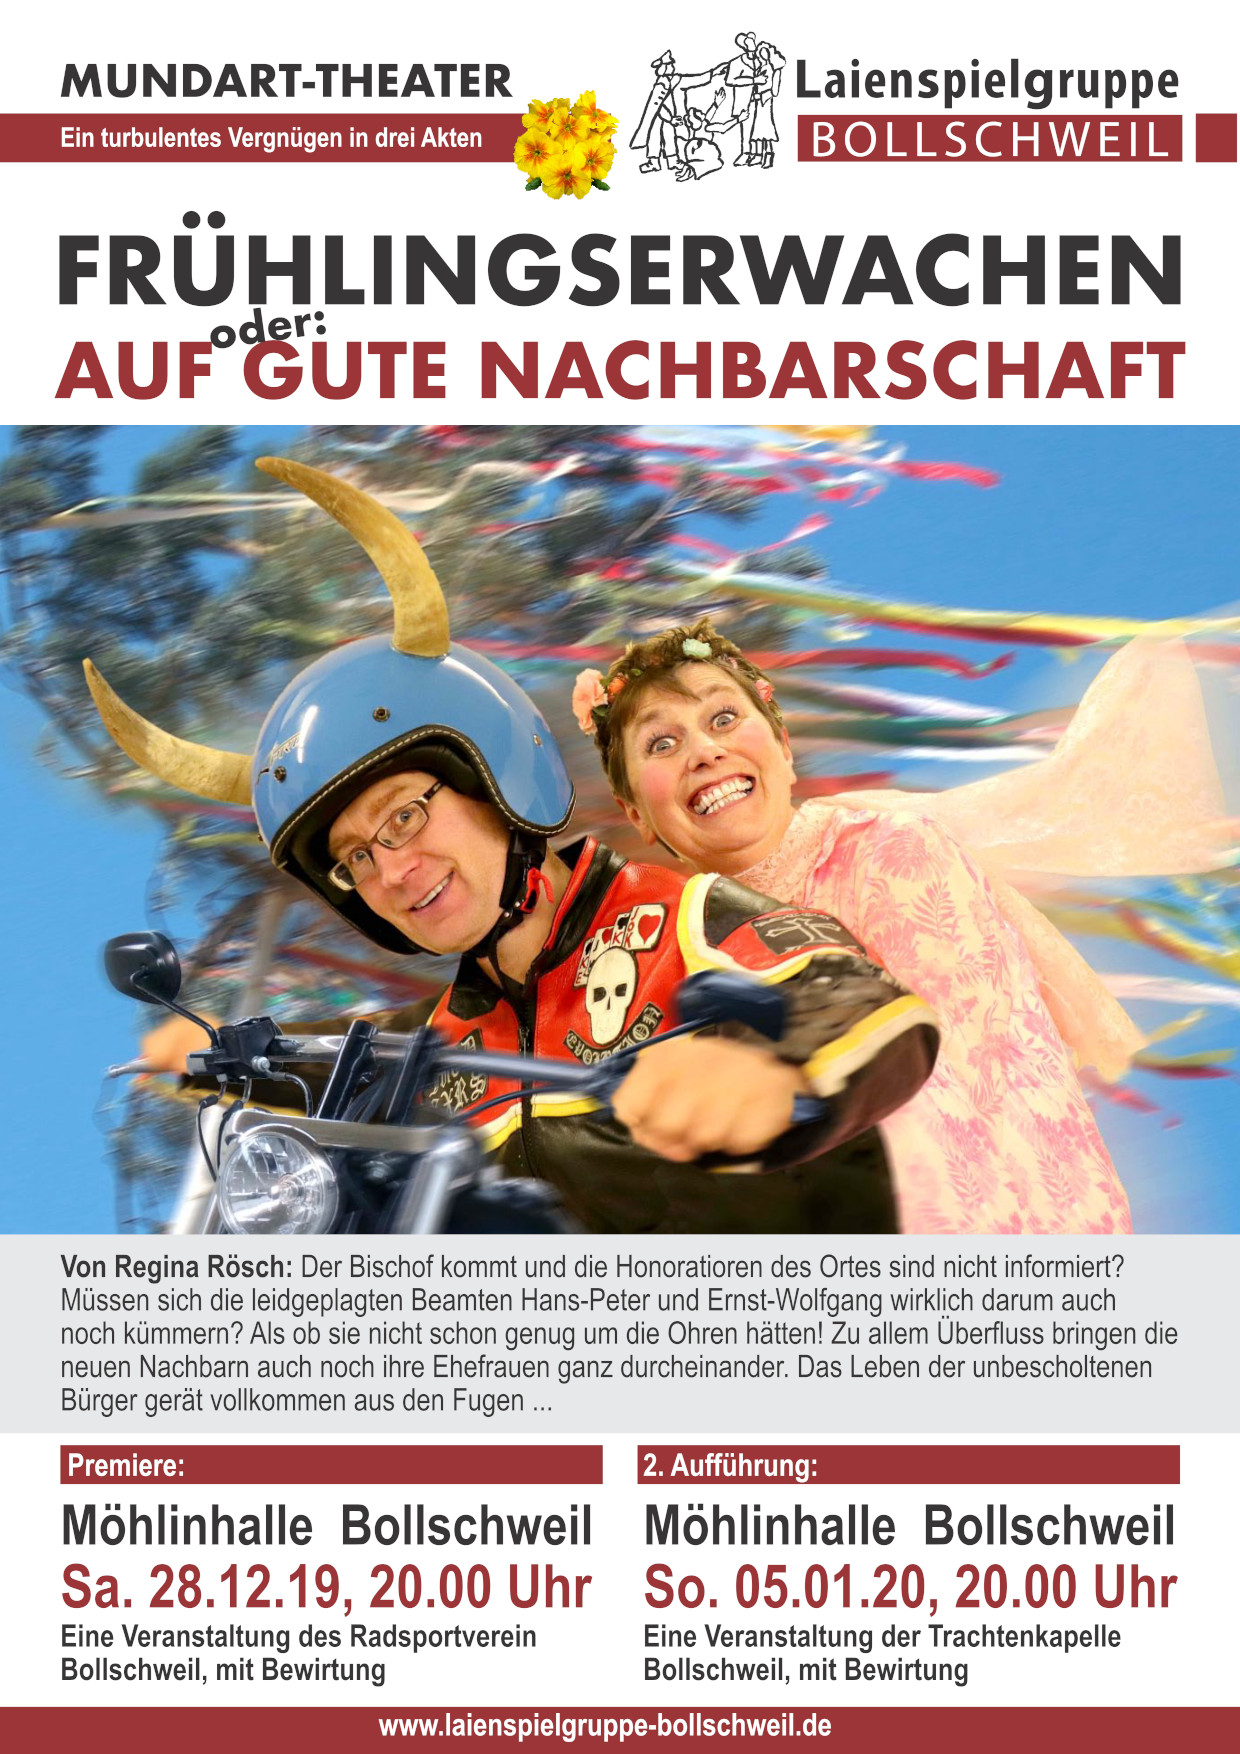
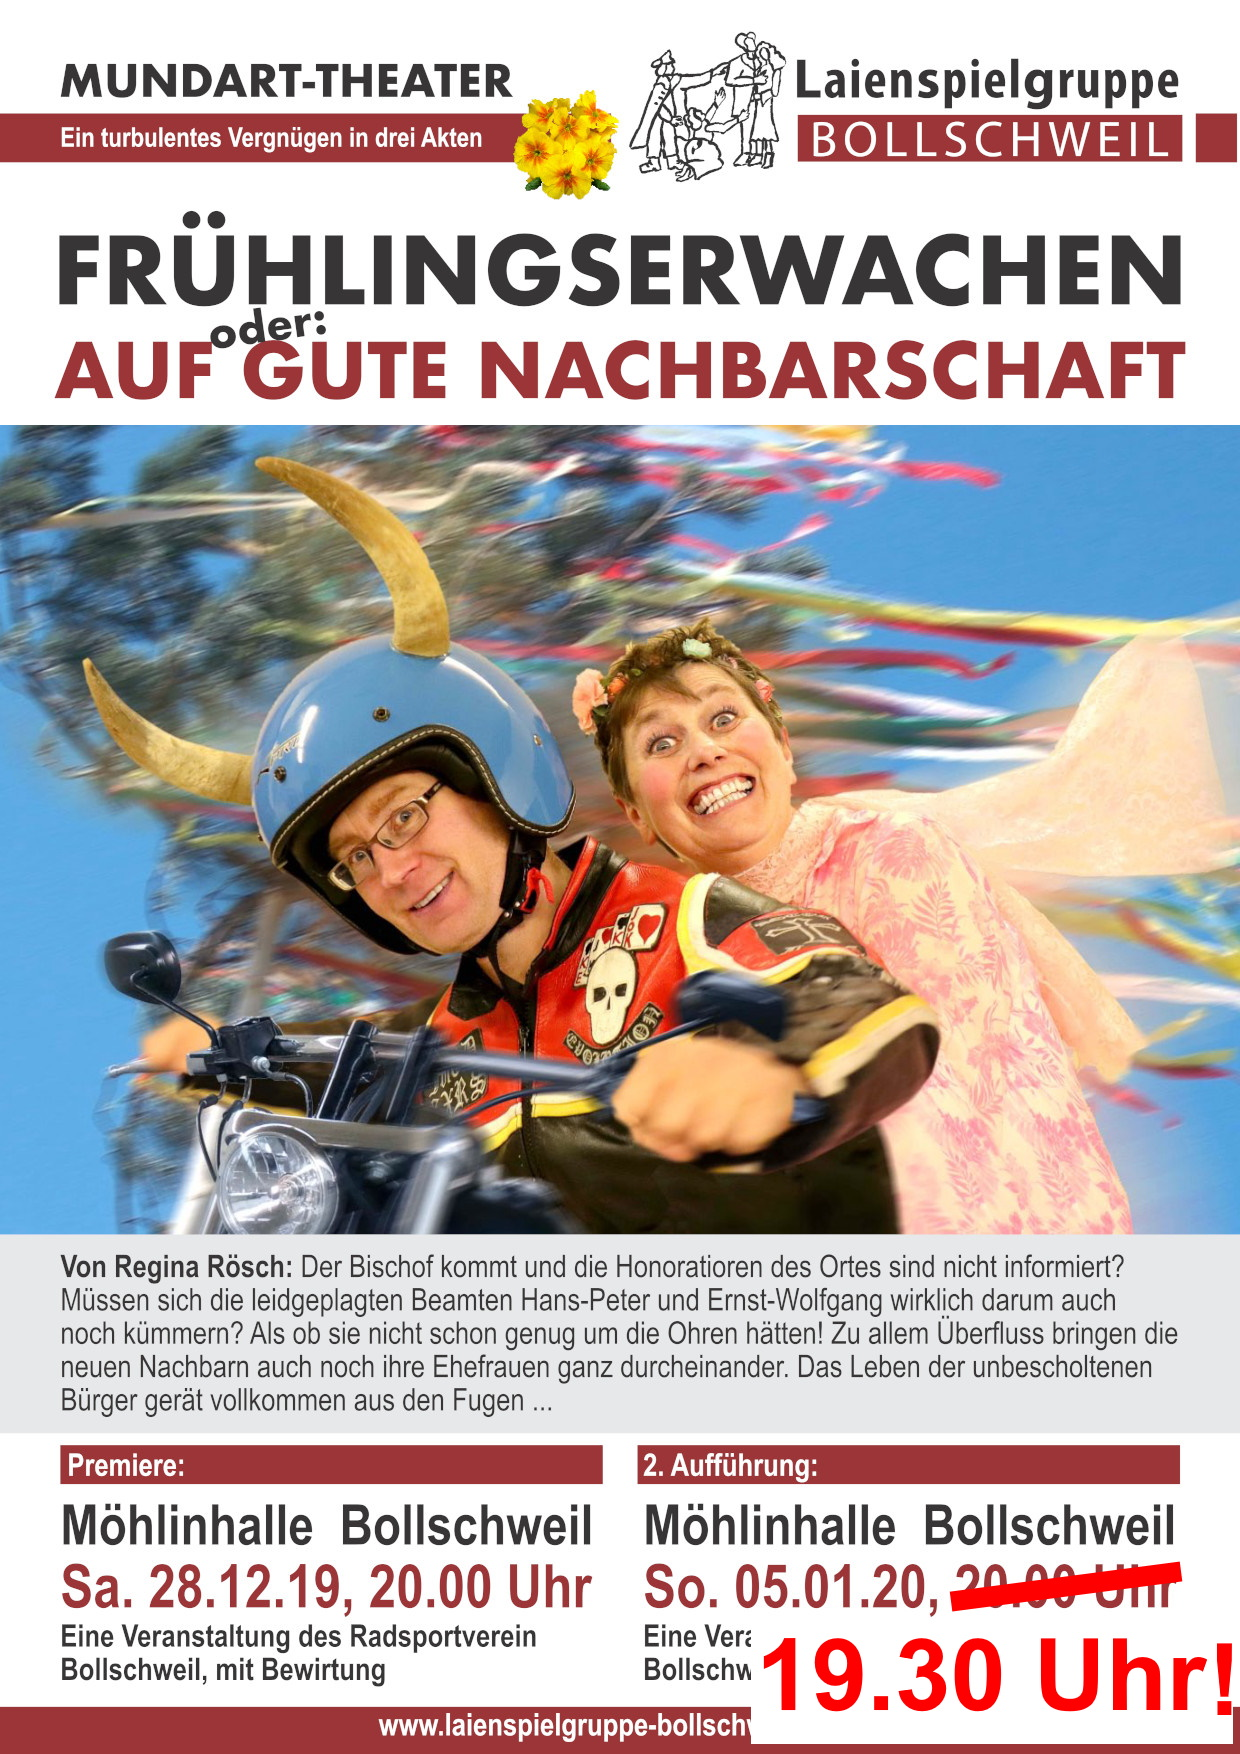
Event update
- fix event info
- move news data
- add new style class for red font color

Changed region(s): [[0.5823, 0.8928, 1.0, 1.0]]

diff --git a/content/news/70.html b/content/news/70.html
@@ -13,10 +13,10 @@
 </p>
 <p>
         Am: <span class="strong">Sonntag, 5. Januar 2020</span><br>
-        Um: <span class="strong">20:00 Uhr</span>
+        Um: <span class="strong red">19:30 Uhr</span>
 </p>
 <p>
-        Der Musikverein veranstaltet am Sonntag, den 05. Januar um 20 Uhr in der Möhlinhalle Bollschweil eine öffentliche Weihnachtsfeier.
+        Der Musikverein veranstaltet am Sonntag, den 05. Januar um 19.30 Uhr in der Möhlinhalle Bollschweil eine öffentliche Weihnachtsfeier.
 </p>
 <p>
         Es wird ein Mundart-Theater geben mit dem Stück "Frühlingserwachen oder: auf gute Nachbarschaft" von der Laienspielgruppe Bollschweil.

diff --git a/incs/classes.css b/incs/classes.css
@@ -1,3 +1,7 @@
+.red {
+    color: red;
+}
+
 .shaddow
 {
     box-shadow: 10px 10px 5px 0px rgba(0,0,0,0.75);

diff --git a/content/home.php b/content/home.php
@@ -30,7 +30,7 @@ if($nowDate < $refDate)
     <p class="center">
         <br>
         Zur öffentlichen Weihnachtsfeier am<br>
-    <span class="bold">Sonntag, den 05. Januar 2020 um 20.00 Uhr</span>
+    <span class="bold red">Sonntag, den 05. Januar 2020 um 19.30 Uhr</span>
         <br>laden wir Sie recht herzlich ein. 
         <br><a href="?content=aktuell">Weitere Informationen</a></p>
 </div>
